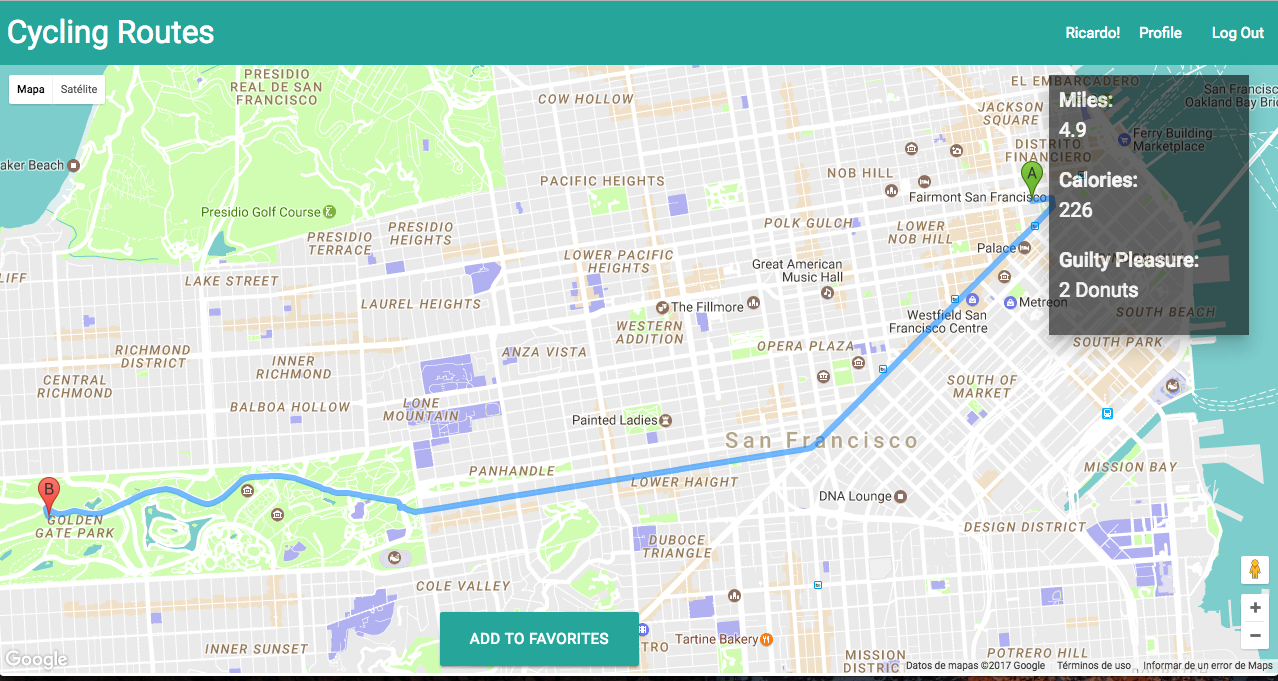
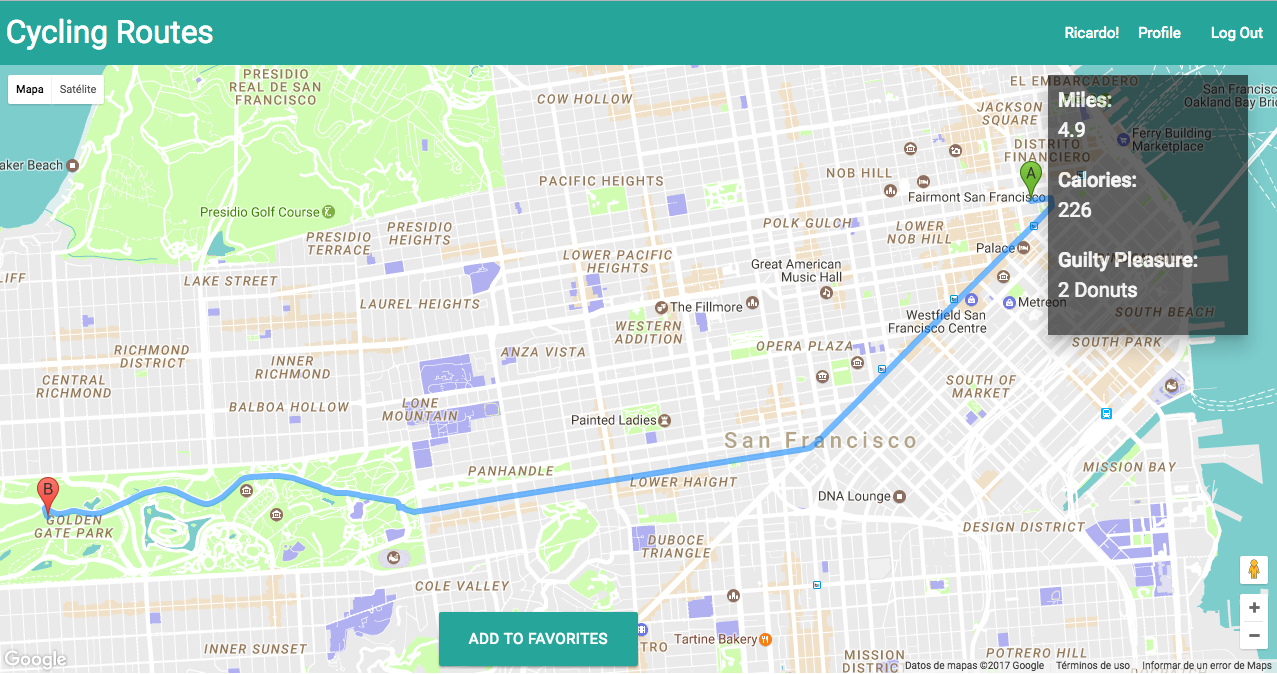
add opacity to navbar

diff --git a/index.html b/index.html
@@ -48,7 +48,7 @@
   </div>
 
 
-  <div id="headerwrap">
+  <div id="headerwrap" class="img-responsive">
     <div class="container">
     <div class="row">
       <div class="col-lg-6 col-lg-offset-3">
@@ -60,7 +60,7 @@
     </div>
   </div>
 
-  <section id="works"></section>
+
   <div class="container">
   <div class="row centered mt mb">
     <h1>My Portfolio</h1>
@@ -79,7 +79,7 @@
             <div class="modal-body">
               <div class="row">
                 <div class="col-md-8">
-                    <img class="img-responsive" srcset="assets/imgs/cycling.png" alt="My default image">
+                    <img class="img-responsive" srcset="assets/imgs/cycling.png" alt="cycling">
                   <a href="https://github.com/ricarellano/final_project" class="btn btn-primary" type="button" name="button">Github</a>
                   <a href="https://cycling-pro.herokuapp.com" class="btn btn-primary" type="button" name="button">Website</a>
                 </div>
@@ -114,7 +114,7 @@
             <div class="modal-body">
               <div class="row">
                 <div class="col-md-8 text-center">
-                  <img class="img-responsive" srcset="assets/imgs/airplane.png" alt="My default image">
+                  <img class="img-responsive" srcset="assets/imgs/airplane.png" alt="airplane">
                   <a href="https://github.com/ricarellano/airplane-crash" class="btn btn-primary" type="button" name="button">Github</a>
                   <a href="http://airplane-crash.bitballoon.com/" class="btn btn-primary" type="button" name="button">Website</a>
                 </div>
@@ -148,33 +148,17 @@
   </div>
   </div>
 
-
-
-    </div>
-  </div>
-  </div>
-
   <div id="footerwrap">
   <div class="container">
-    <div class="row centered">
-      <div class="col-lg-4">
-        <!-- <p><b>WEB DEVELOPER</b></p> -->
-      </div>
-
-      <div class="col-lg-4">
-        <!-- <p>Made</p> -->
-      </div>
-      <div class="col-lg-4 text-right">
+    <div class="row">
+      <div class="col-lg-12 ">
         <p> <a href="https://github.com/ricarellano"><i class="social fa fa-github fa-lg " aria-hidden="true"></i></a>   &nbsp;
           <span> <a href="https://www.linkedin.com/in/ricardo-arellano"><i class="social fa fa-linkedin fa-lg 2" aria-hidden="true"></i></a> </span> &nbsp;
           <span> <a href="https://twitter.com/ricarellano"><i class="social fa fa-twitter fa-lg 2" aria-hidden="true"></i></a> </span> &nbsp;
           <span> <a href="mailto:rarellanob@gmail.com"> <i class="social fa fa-envelope-o fa-lg 2" aria-hidden="true"></i></a></span></p>
-        <p></p>
-
-
-
       </div>
     </div>
   </div>
   </div>
+ </body>
 </html>

diff --git a/assets/css/main.css b/assets/css/main.css
@@ -1,9 +1,6 @@
 /* custom styles */
 @import url(http://fonts.googleapis.com/css?family=Montserrat:400,700);
-img {
-    max-width: 100%;
-    height: auto;
-}
+
 ::-moz-selection {
     background: #f2c2c9;
     color: #a4003a;
@@ -70,8 +67,10 @@ h1, h2, h3, h4, h5, h6 {
 }
 
 .navbar-default {
-	background-color: transparent;
-	border-color: transparent;
+	/*background-color: transparent;*/
+	/*border-color: transparent;*/
+  background-color: black;
+  opacity: 0.5;
 }
 
 .navbar-default .navbar-nav > .active > a, .navbar-default .navbar-nav > .active > a:hover, .navbar-default .navbar-nav > .active > a:focus {
@@ -89,16 +88,17 @@ h1, h2, h3, h4, h5, h6 {
    ========================================================================== */
 
 #headerwrap {
+
 	background: url(../imgs/img3.jpg) no-repeat center top;
-	margin-top: -70px;
+	margin-top: 0px;
 	padding-top: 250px;
 	text-align:center;
 	background-attachment: relative;
 	background-position: center center;
 	min-height: 650px;
 	width: 100%;
-  opacity: 0.7;
-  filter: alpha(opacity=50);
+  /*opacity: 0.7;
+  filter: alpha(opacity=50);*/
 
     -webkit-background-size: 100%;
     -moz-background-size: 100%;
@@ -132,47 +132,15 @@ h1, h2, h3, h4, h5, h6 {
 	/*padding-top: 70px;*/
 	/*padding-bottom: 50px;*/
 	background-color: #2f2f2f;
+  text-align: right;
 }
 
 #footerwrap p {
 	color: #f2f2f2;
-	margin-left: 10px;
+	margin-right: 10px;
 }
 
-#workwrap {
-	background: url(../img/work.jpg) no-repeat center top;
-	margin-top: -70px;
-	padding-top: 250px;
-	text-align:center;
-	background-attachment: relative;
-	background-position: center center;
-	min-height: 650px;
-	width: 100%;
 
-    -webkit-background-size: 100%;
-    -moz-background-size: 100%;
-    -o-background-size: 100%;
-    background-size: 100%;
-
-    -webkit-background-size: cover;
-    -moz-background-size: cover;
-    -o-background-size: cover;
-    background-size: cover;
-}
-
-#workwrap h1 {
-	color:#ffffff;
-	padding-top: 10px;
-	padding-bottom: 20px;
-	letter-spacing: 4px;
-	font-size: 80px;
-	font-weight: bold;
-}
-
-#workwrap h4 {
-	font-weight: 400;
-	color: #ffffff
-}
 
 #aboutwrap {
 	background: url(../imgs/ricardo.jpg) no-repeat center top;

diff --git a/about.html b/about.html
@@ -63,40 +63,22 @@
 				<h2>RICARDO ARELLANO</h2>
 				<p>I am a  web developer who loves to design and create new things. I have a background in mechanical 3D design, that combined with my coding skills, lets me understand the complete process in the creation of a product. </p>
 
-        <p>I love being challenged and I think that one of my biggest skills is my capacity to analize a problem from different perspectives, helping  companies understand their product in a richer way. </p>
+        <p>I love being challenged and I think that one of my biggest skills is my capacity to analyze a problem from different perspectives, helping  companies understand their product in a richer way. </p>
 			</div>
 
 		</div>
 	</div>
 
-	<div id="social">
-		<div class="container">
-			<div class="row centered">
 
-
-			</div>
-		</div>
-	</div>
 
   <div id="footerwrap">
   <div class="container">
-    <div class="row centered">
-      <div class="col-lg-4">
-        <!-- <p><b>WEB DEVELOPER</b></p> -->
-      </div>
-
-      <div class="col-lg-4">
-        <!-- <p>Made</p> -->
-      </div>
-      <div class="col-lg-4 text-right">
+    <div class="row">
+      <div class="col-lg-12 ">
         <p> <a href="https://github.com/ricarellano"><i class="social fa fa-github fa-lg " aria-hidden="true"></i></a>   &nbsp;
           <span> <a href="https://www.linkedin.com/in/ricardo-arellano"><i class="social fa fa-linkedin fa-lg 2" aria-hidden="true"></i></a> </span> &nbsp;
           <span> <a href="https://twitter.com/ricarellano"><i class="social fa fa-twitter fa-lg 2" aria-hidden="true"></i></a> </span> &nbsp;
           <span> <a href="mailto:rarellanob@gmail.com"> <i class="social fa fa-envelope-o fa-lg 2" aria-hidden="true"></i></a></span></p>
-        <p></p>
-
-
-
       </div>
     </div>
   </div>
